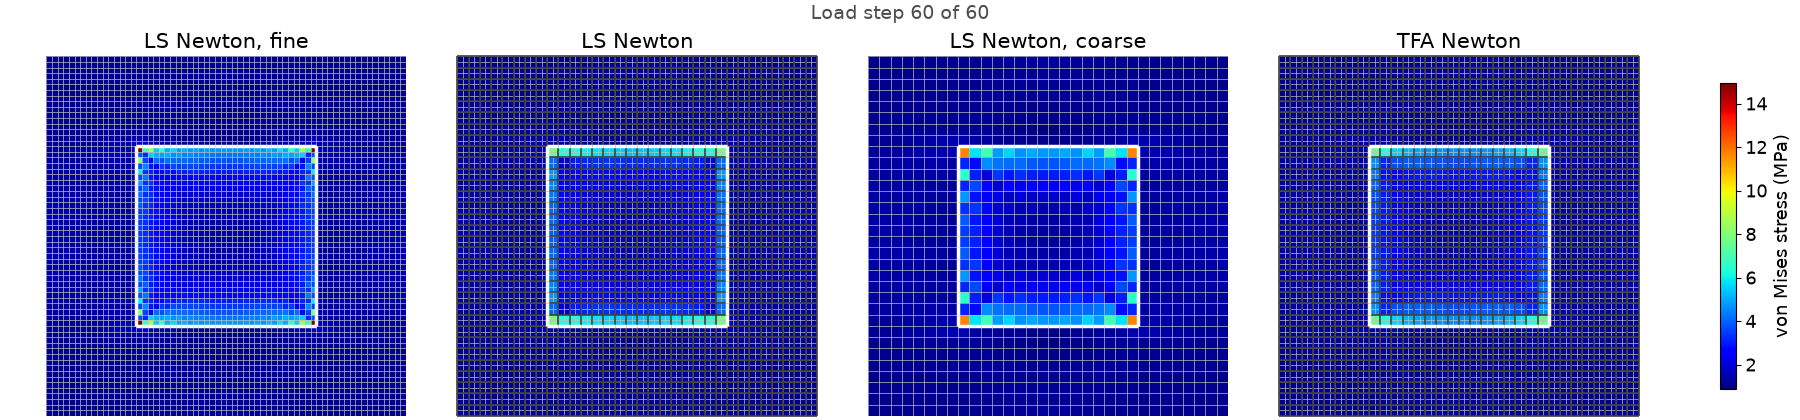
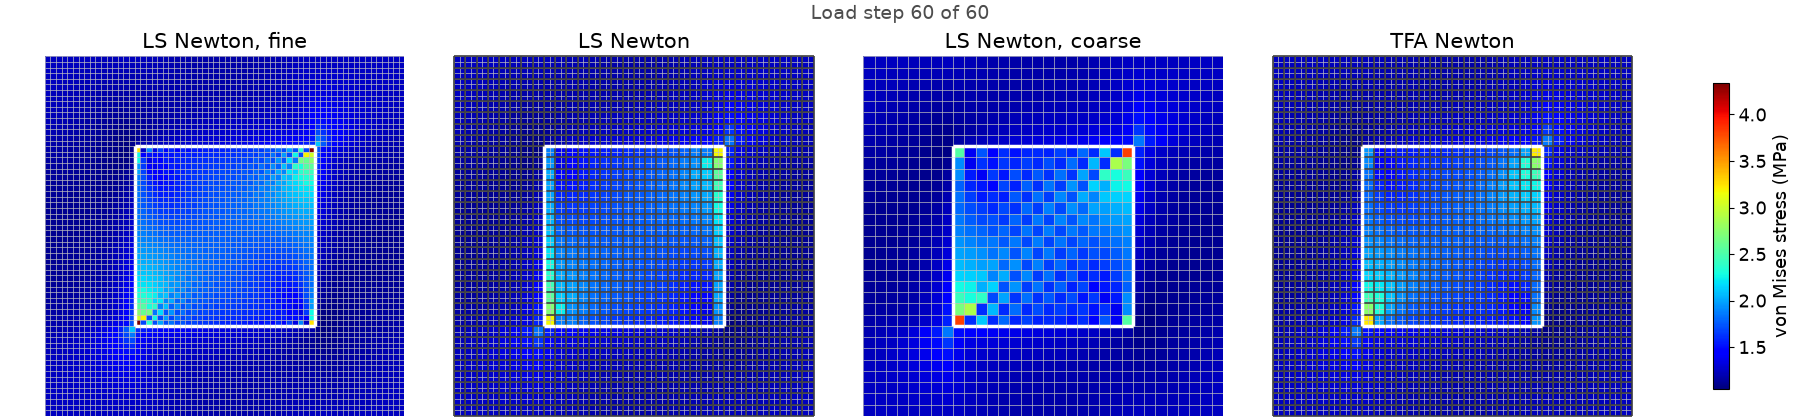
good problem setting

diff --git a/code/config.py b/code/config.py
@@ -19,7 +19,7 @@ inclusion_shape             = "square"
 inclusion_side_length       = 0.5e-3
 inclusion_radius            = 0.35e-3
 element_number_per_side     = 64
-element_number_along_z      = 3
+element_number_along_z      = 1
 partition_number_per_side   = 32
 
 # Materials. matched_stiffness_control = True gives the inclusion the matrix's elastic stiffness; the TFA and LS models
@@ -48,7 +48,7 @@ include_non_partitioned_ls  = True
 #   "homogenized"  the homogenized stiffness of the actual composite, <L E> over the partitions
 #   "voigt"        the Voigt average <L> over the partitions
 #   "matrix"       the matrix stiffness
-reference_stiffness         = "homogenized"
+reference_stiffness         = "matrix"
 
 # Load path: max_macro_strain reached linearly over strain_increment_count steps. Alternatives:
 #   np.array([0.03, 0.0, 0.0, 0.0, 0.0, 0.0])      uniaxial
@@ -57,7 +57,7 @@ reference_stiffness         = "homogenized"
 # load_path_shape "monotonic" stops at max_macro_strain; "cyclic" continues 0 -> +max -> -max -> 0 at the same
 # increment, 4 * strain_increment_count steps in all, unloading elastically, yielding in reverse and passing through
 # zero imposed strain twice.
-max_macro_strain            = np.array([0.03, 0.0, 0.0, 0.0, 0.0, 0.0])
+max_macro_strain            = np.array([0.015, 0.020, 0.0, 0.03, 0.0, 0.0])
 strain_increment_count      = 60
 load_path_shape             = "monotonic"
 
